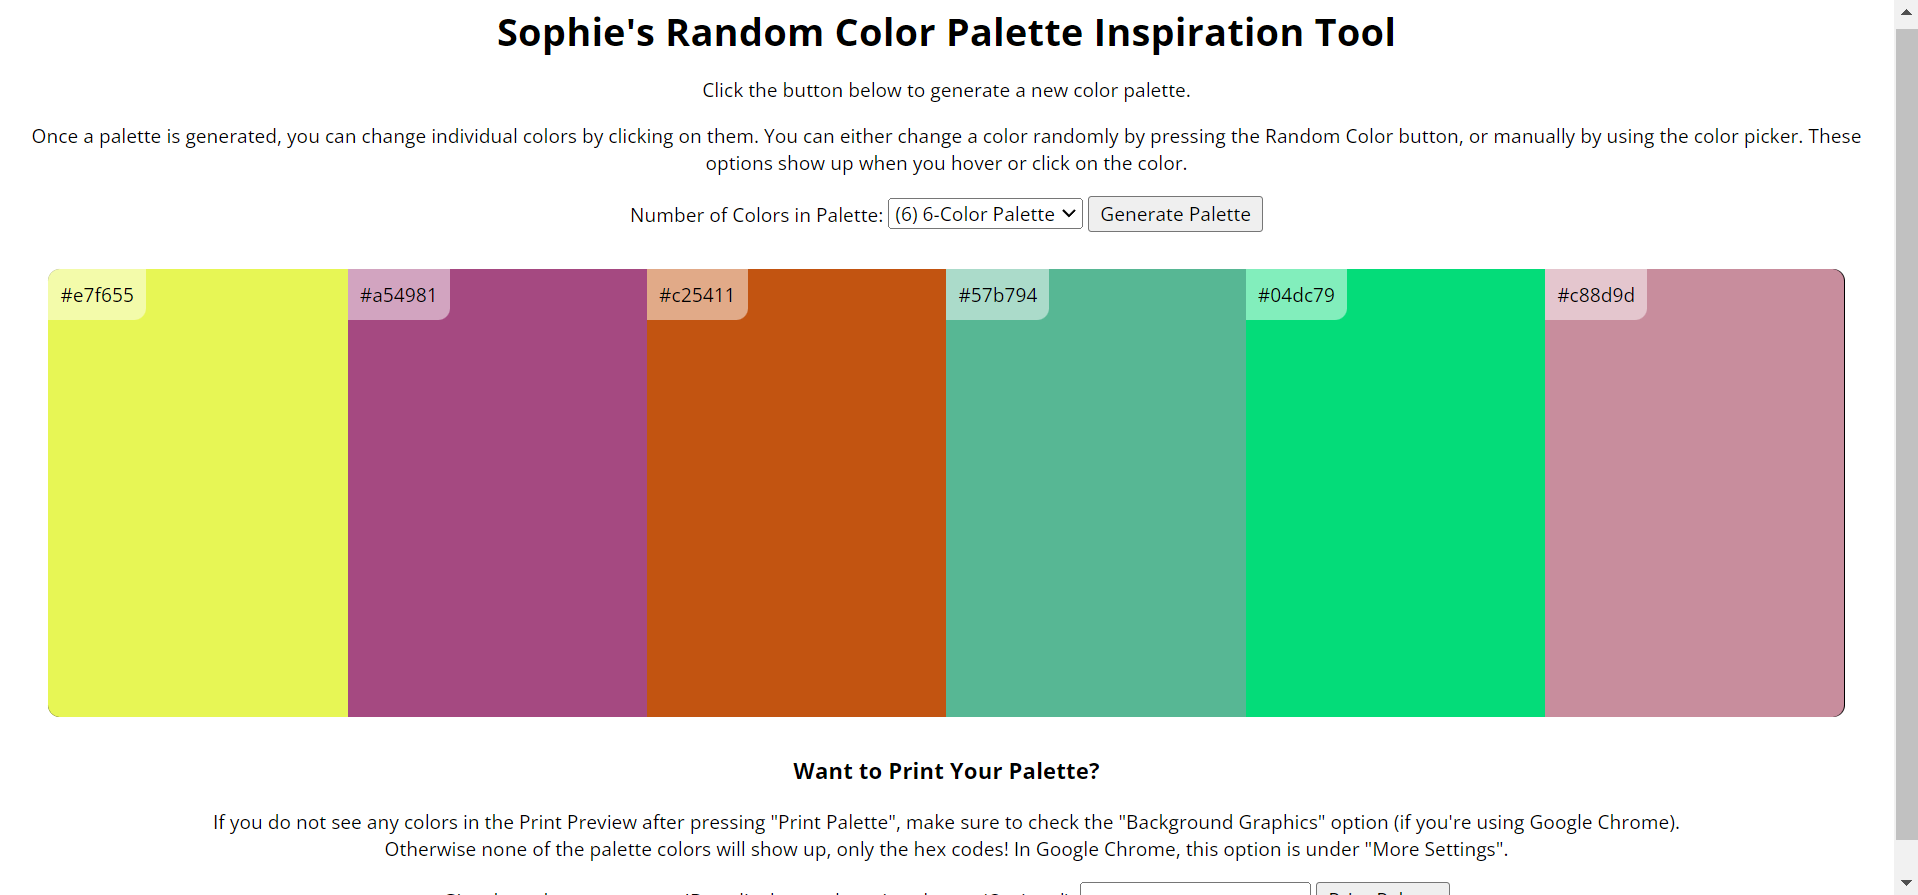
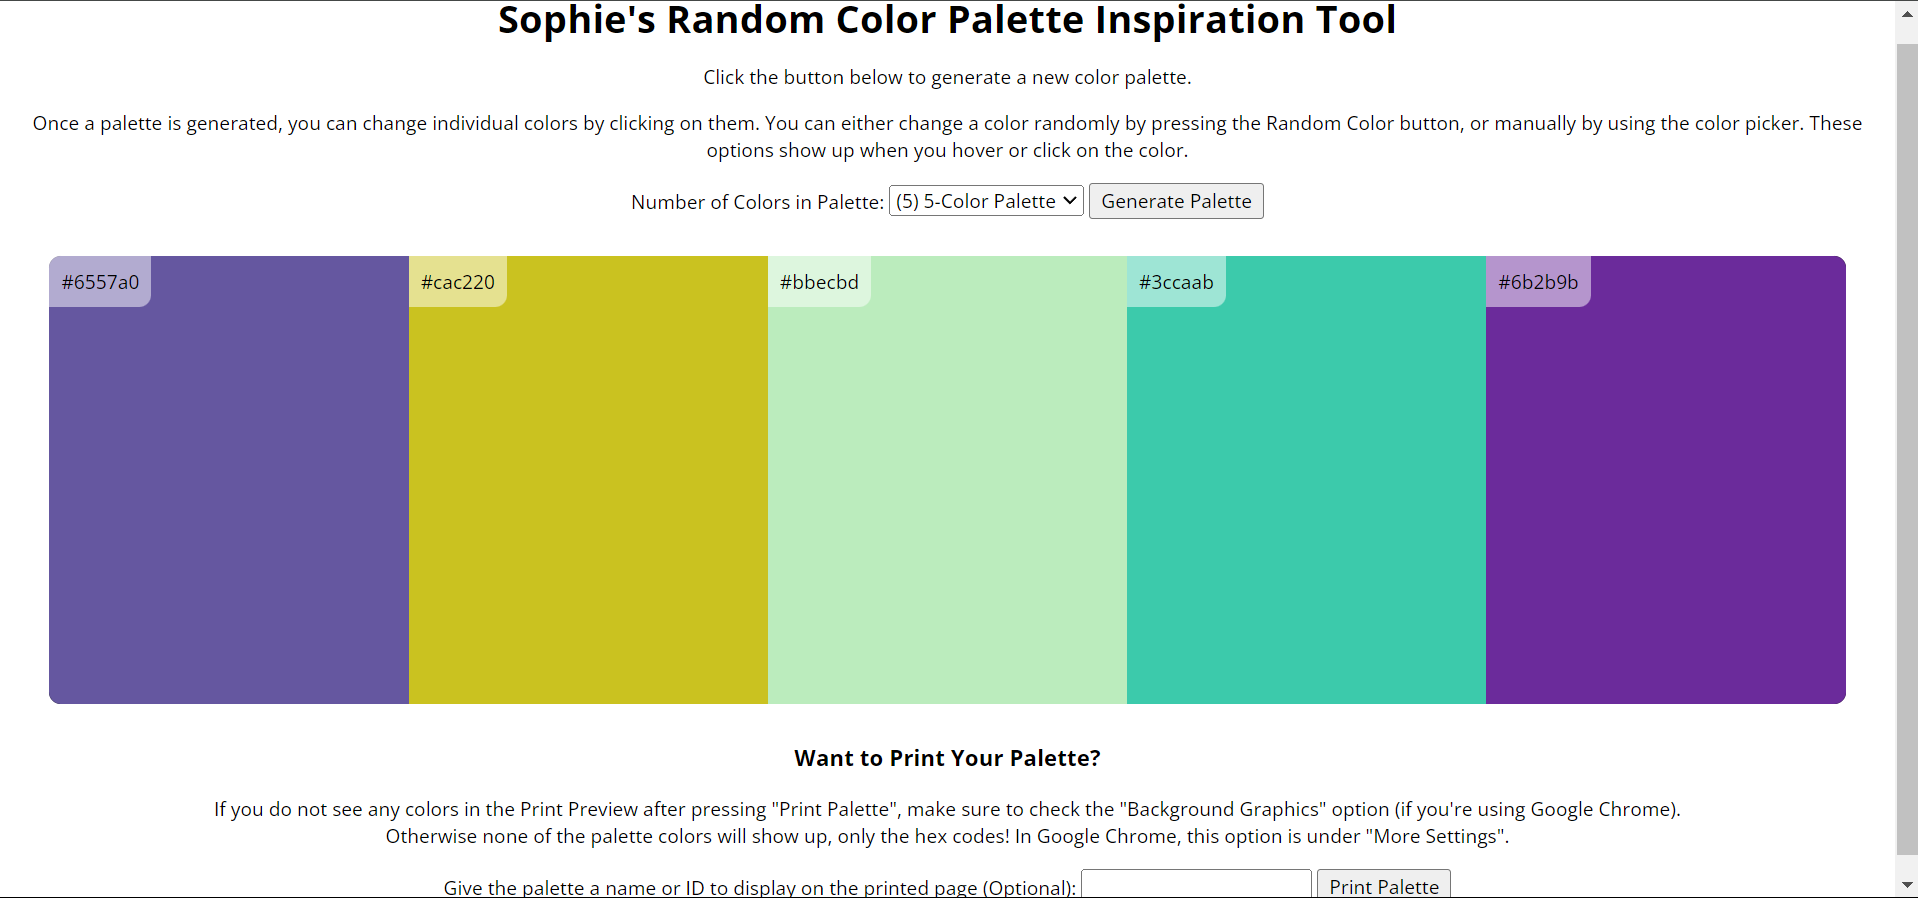
Updated README with Github Pages link and a better webpage screenshot

diff --git a/README.md b/README.md
@@ -1,7 +1,7 @@
 # random-color-palette
 Sophie's Random Color Palette Inspiration Tool
 
-[Try it Out Here!]()
+[Try it Out Here!](https://thegiraffe.github.io/random-color-palette/)
 
 ### Here's an example of what the webpage looks like:
 ![Webpage Example](img/page-example.png)
